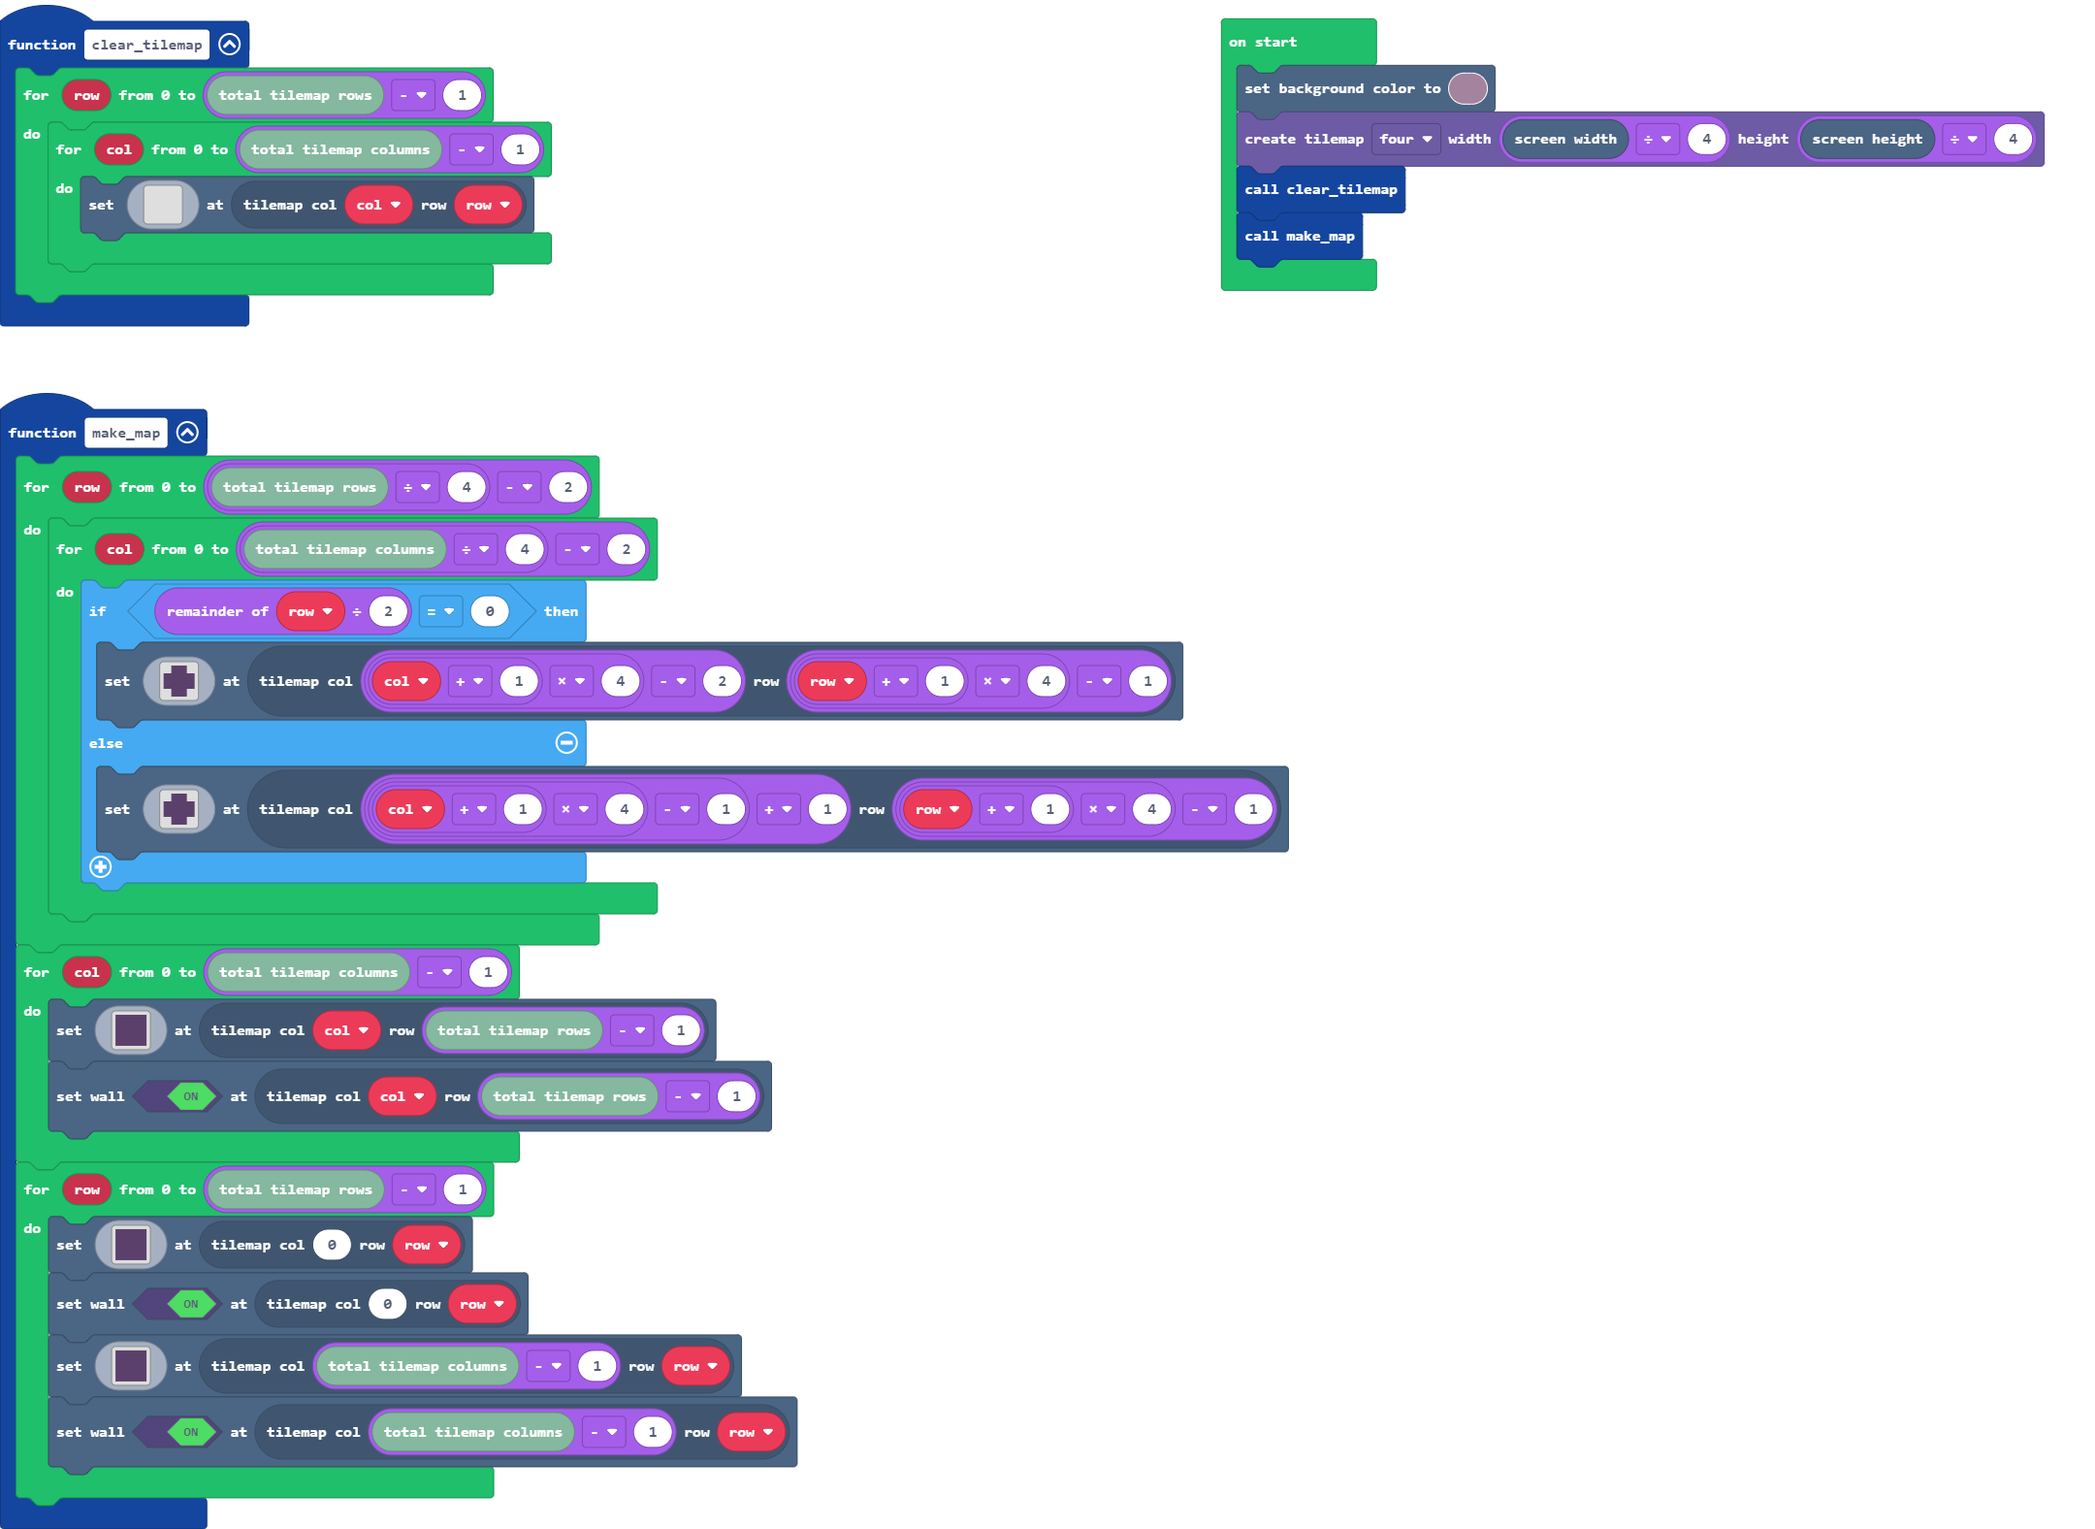
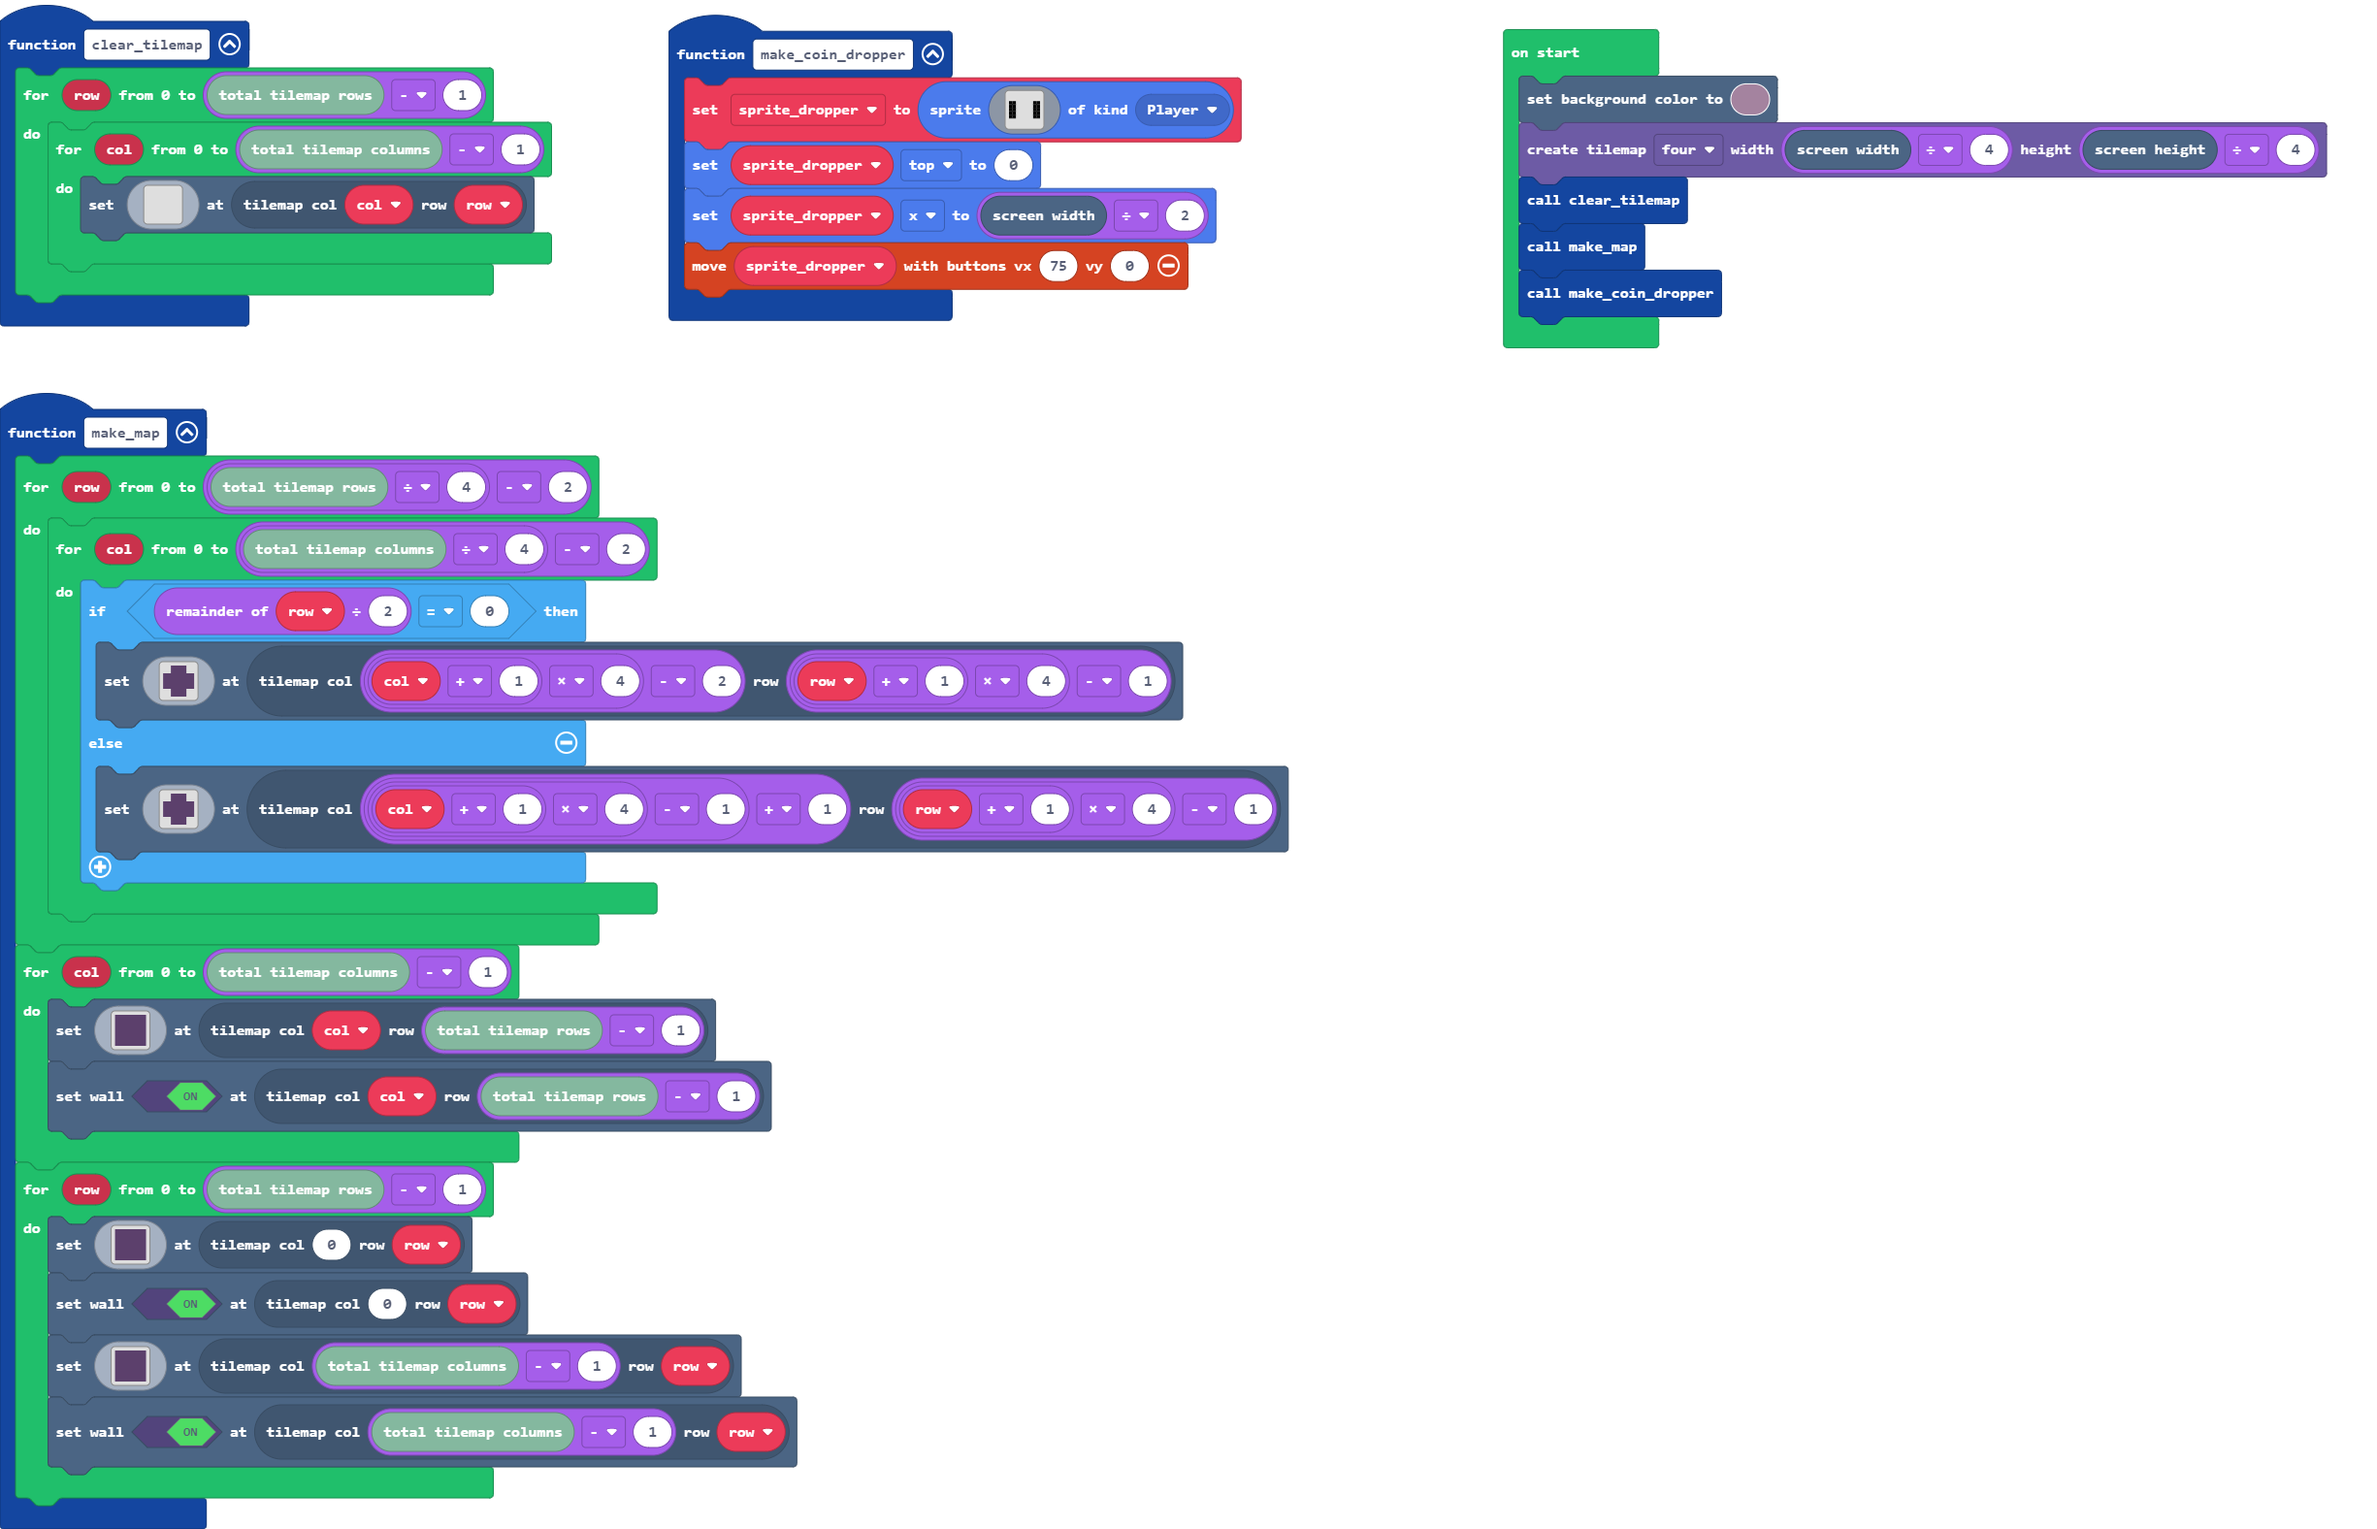
Make the coin dropper

diff --git a/main.ts b/main.ts
@@ -1,3 +1,9 @@
+function make_coin_dropper () {
+    sprite_dropper = sprites.create(assets.image`coin_dropper`, SpriteKind.Player)
+    sprite_dropper.top = 0
+    sprite_dropper.x = scene.screenWidth() / 2
+    controller.moveSprite(sprite_dropper, 75, 0)
+}
 function clear_tilemap () {
     for (let row = 0; row <= tiles.tilemapRows() - 1; row++) {
         for (let col = 0; col <= tiles.tilemapColumns() - 1; col++) {
@@ -26,7 +32,9 @@ function make_map () {
         tiles.setWallAt(tiles.getTileLocation(tiles.tilemapColumns() - 1, row), true)
     }
 }
+let sprite_dropper: Sprite = null
 scene.setBackgroundColor(11)
 micromaps.createTilemap(micromaps.TileSize.Four, scene.screenWidth() / 4, scene.screenHeight() / 4)
 clear_tilemap()
 make_map()
+make_coin_dropper()

diff --git a/images.g.ts b/images.g.ts
@@ -23,6 +23,14 @@ c c c c
 c c c c 
 c c c c 
 `;
+            case "`CAJOn9kkqxpbQlaL2+!":
+            case "coin_dropper":return img`
+f f . . . . . f f 
+f f . . . . . f f 
+f f . . . . . f f 
+f f . . . . . f f 
+f f . . . . . f f 
+`;
         }
         return null;
     })
